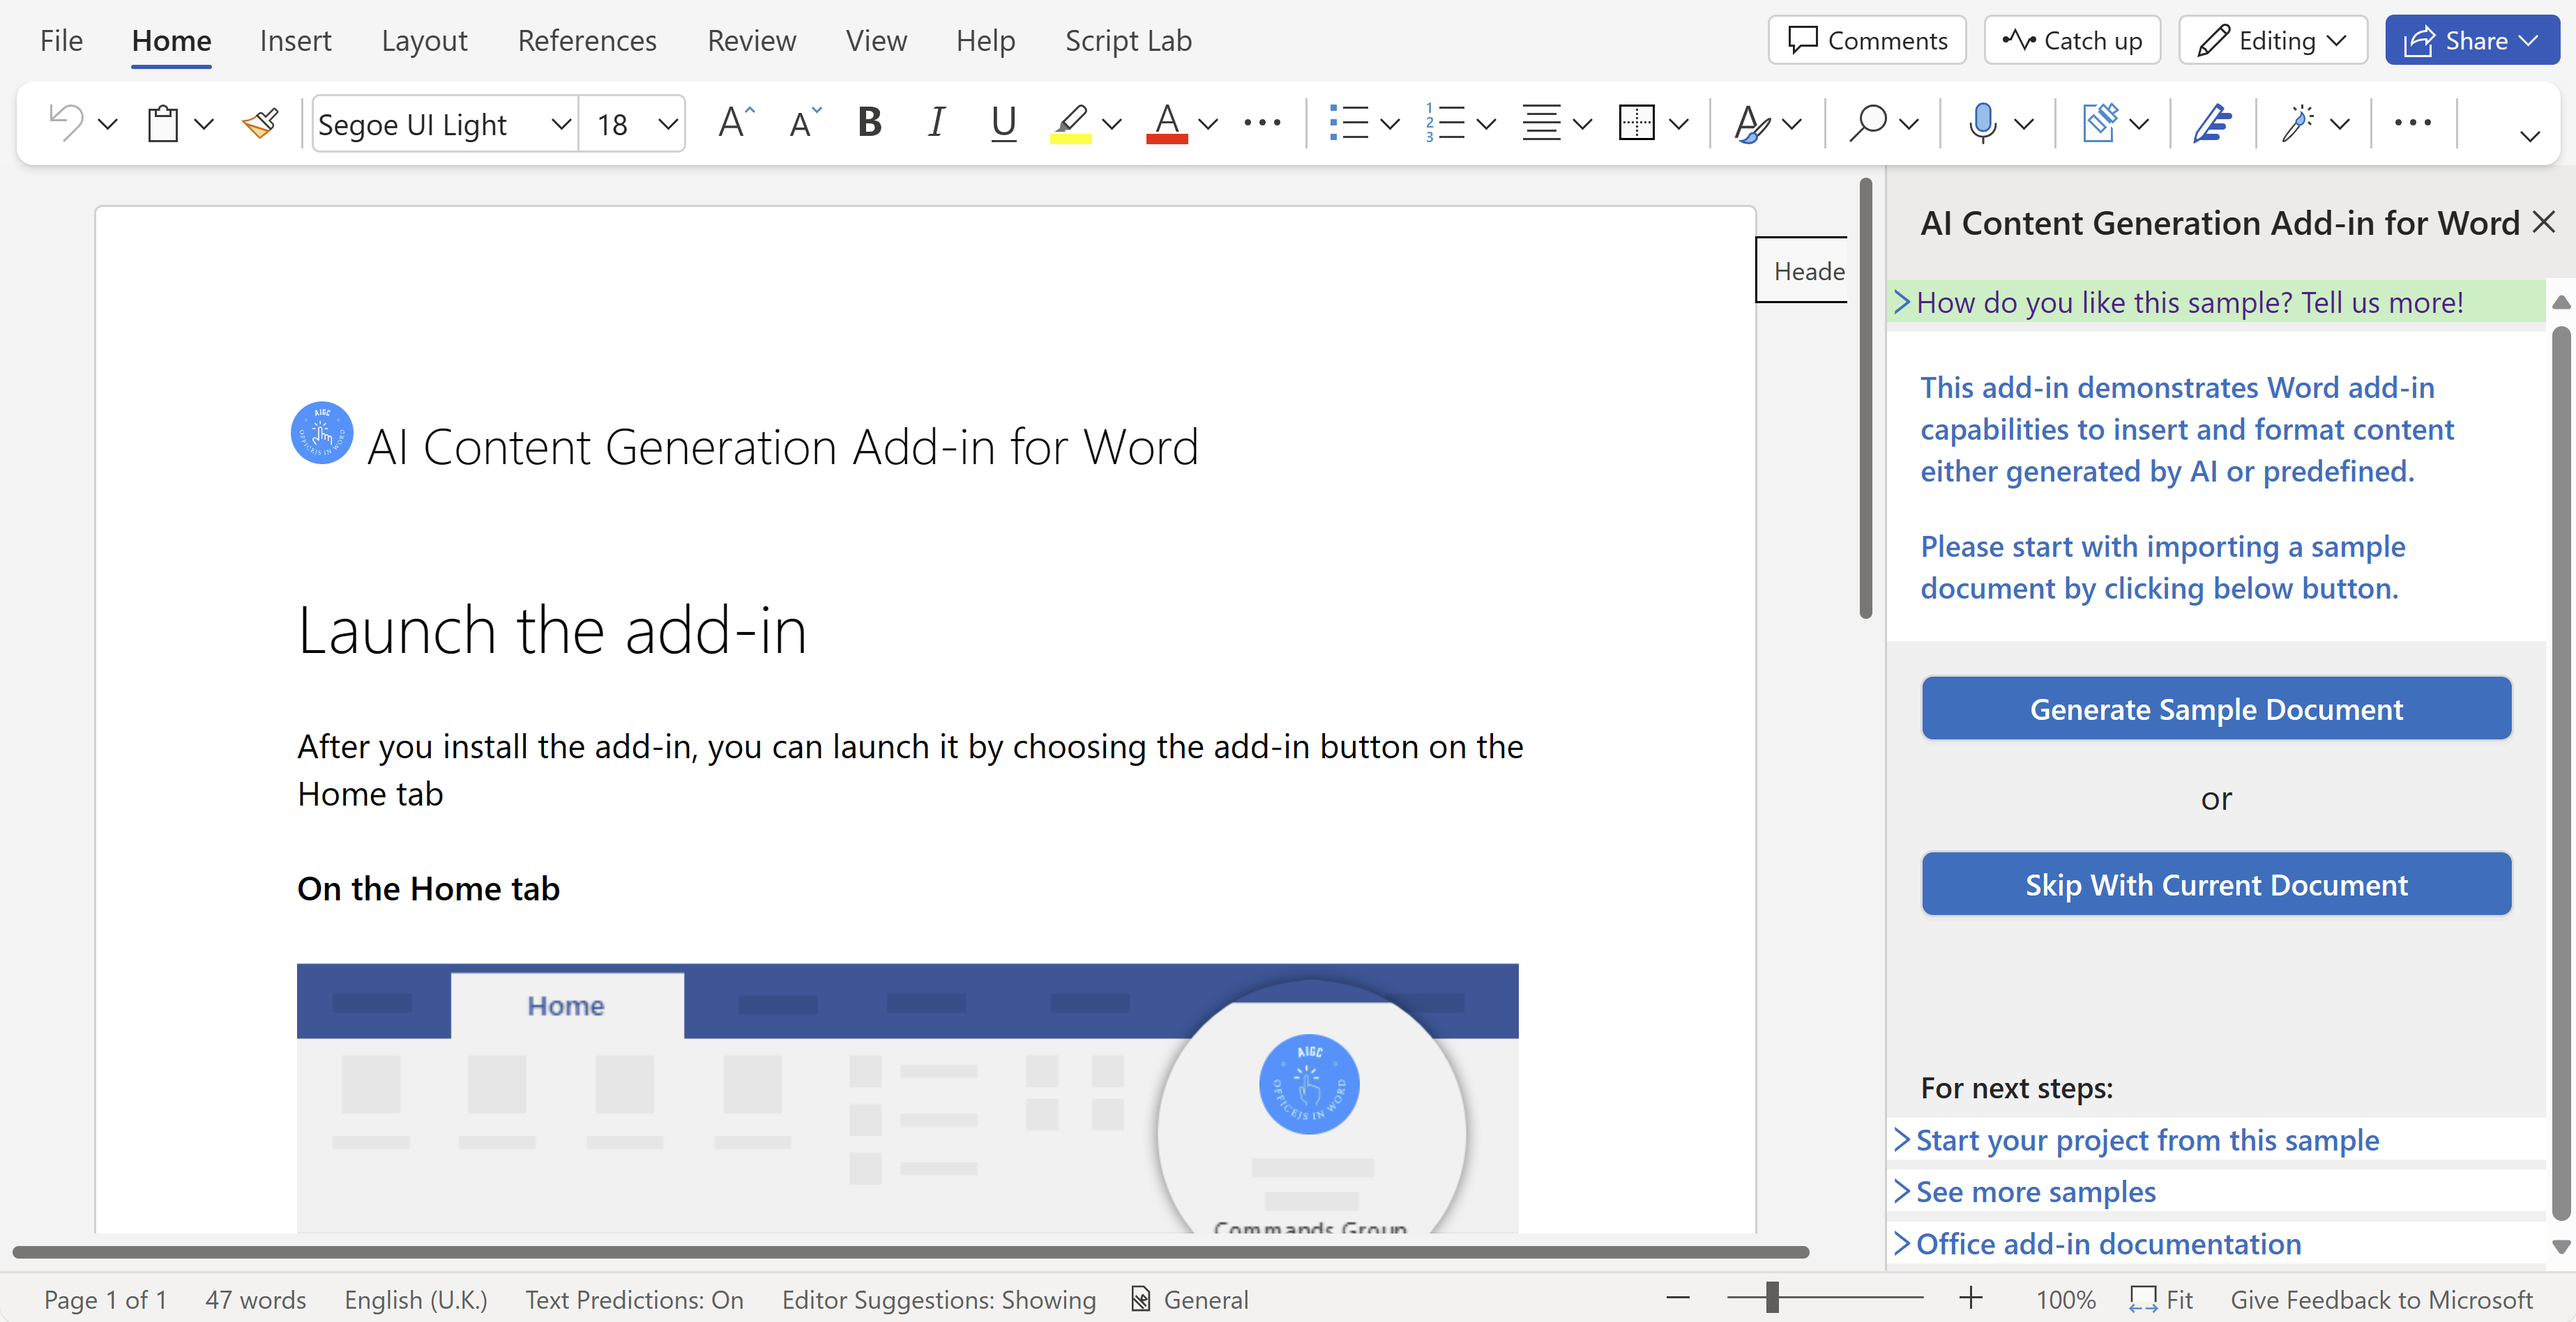
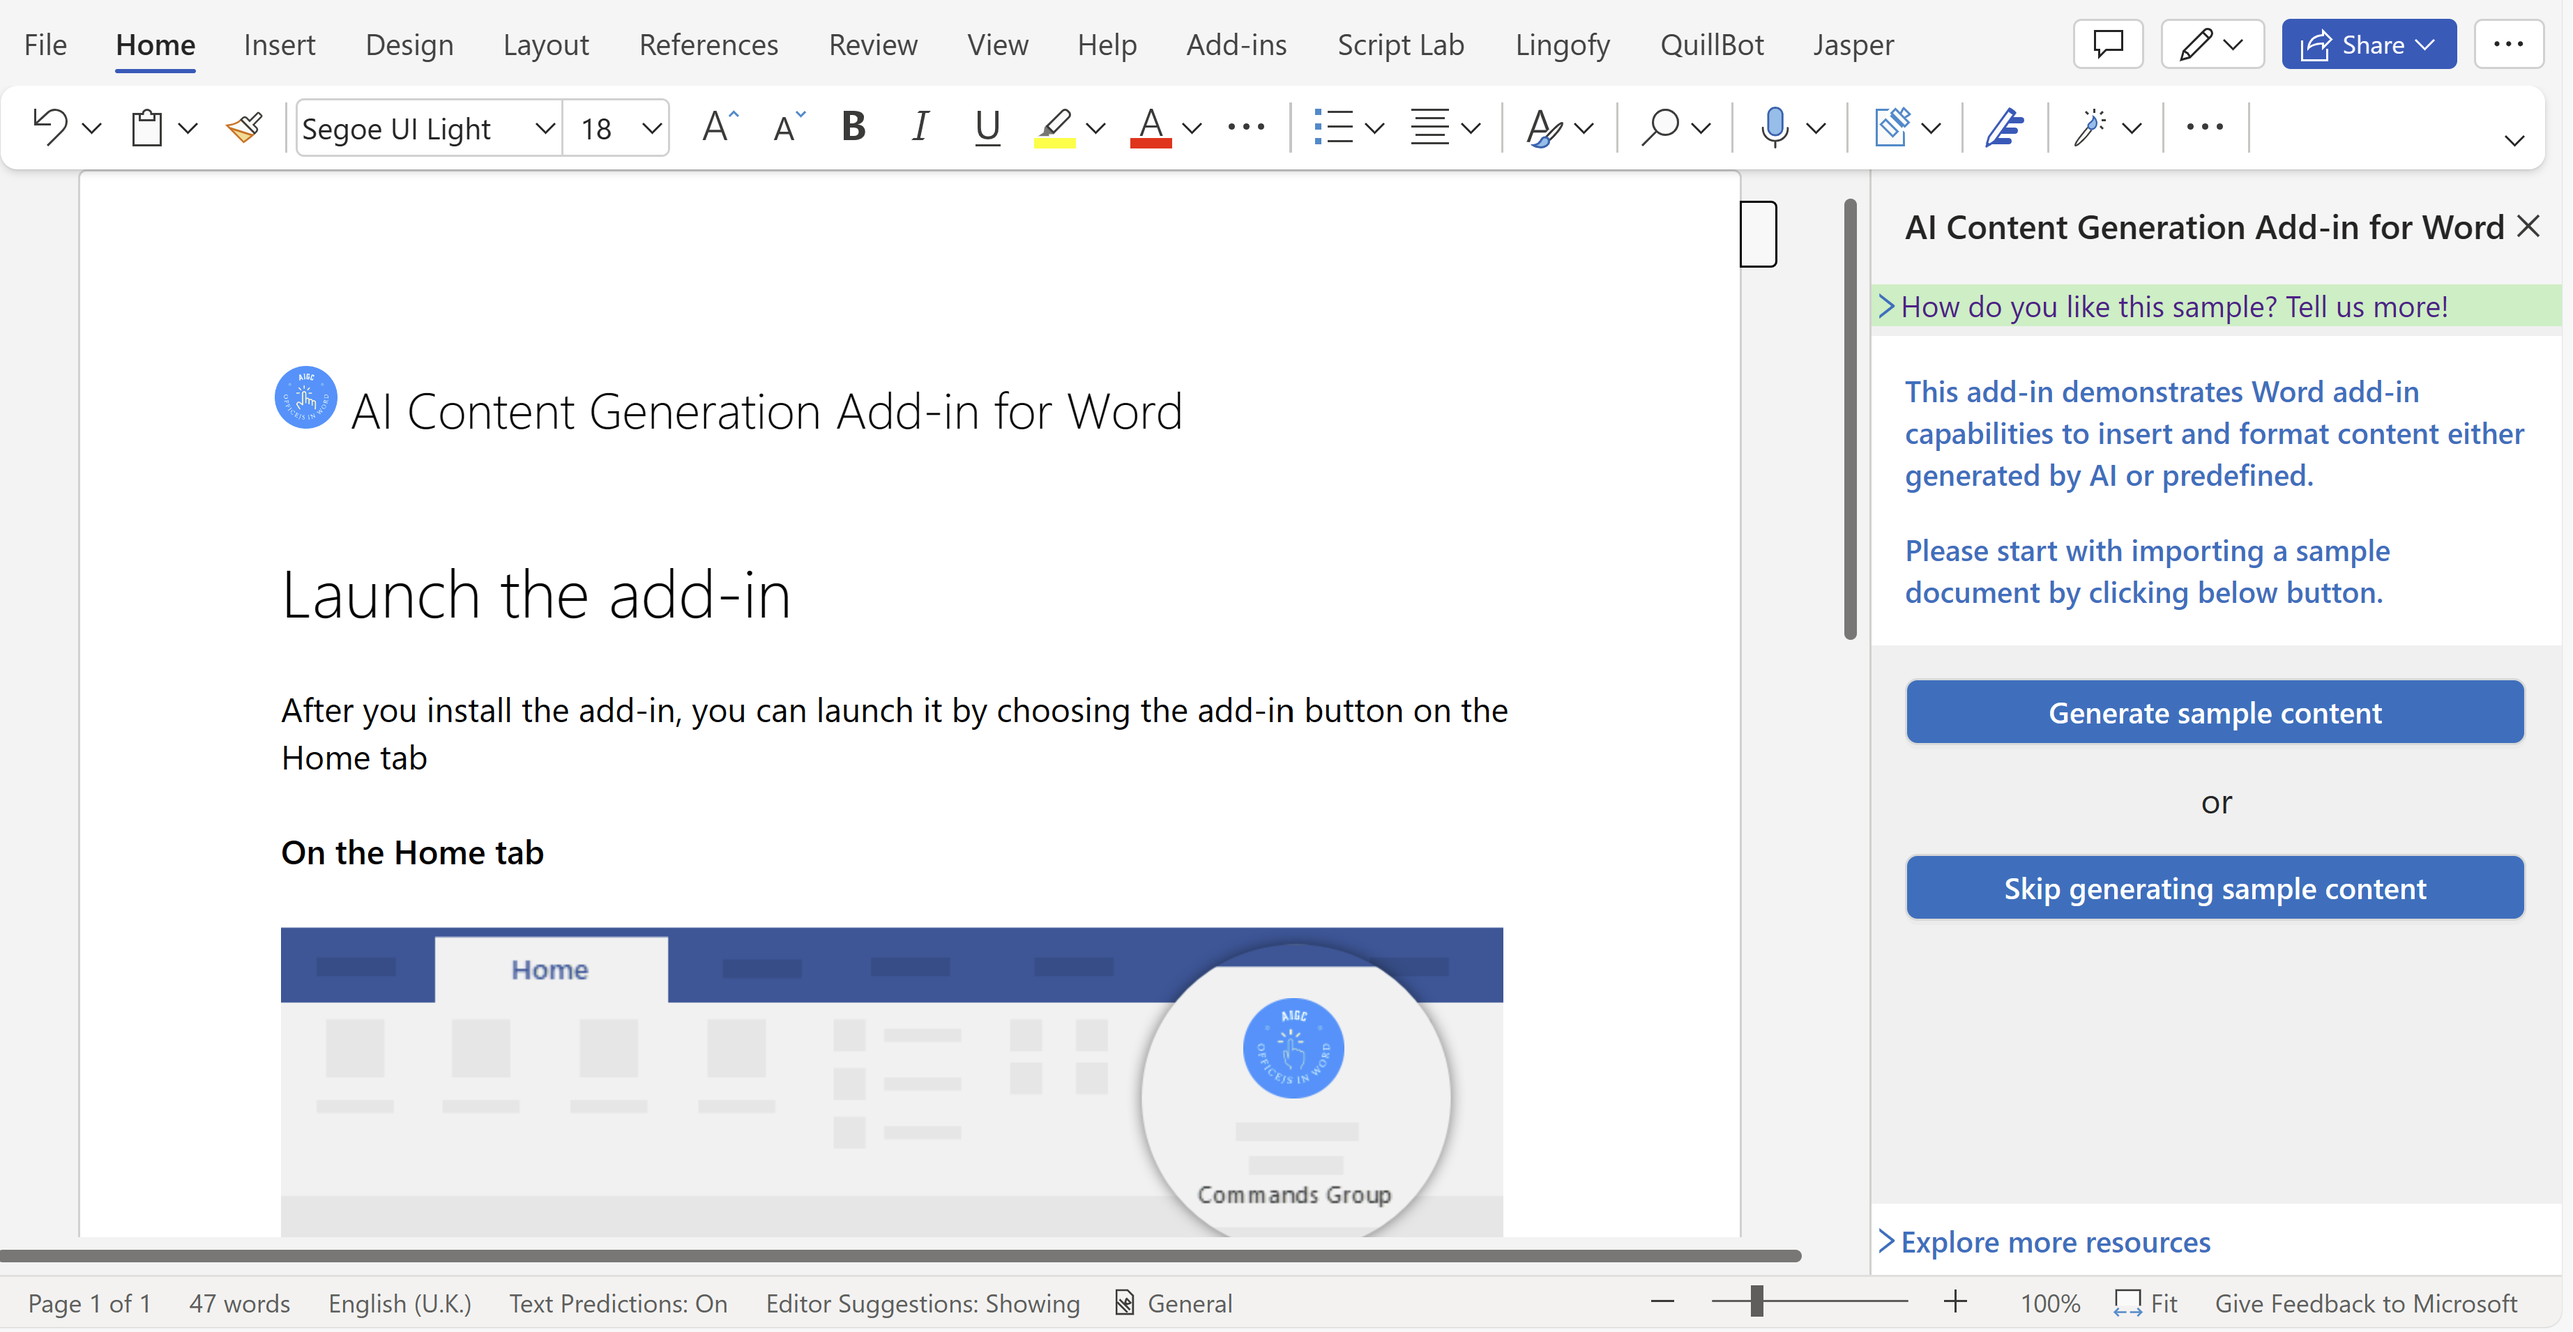
update readme picture and put callback to then in Office.onReady

diff --git a/Word-Add-in-AIGC/src/taskpane/index.tsx b/Word-Add-in-AIGC/src/taskpane/index.tsx
@@ -11,7 +11,7 @@ const rootElement: HTMLElement = document.getElementById("container");
 const root = createRoot(rootElement);
 
 /* Render application after Office initializes */
-Office.onReady(() => {
+Office.onReady().then(() => {
   root.render(
     <FluentProvider theme={webLightTheme}>
       <Home />

diff --git a/Word-Add-in-AIGC/README.md b/Word-Add-in-AIGC/README.md
@@ -32,7 +32,7 @@ When you click the button, you will open Word online in a new browser tab, and t
 To run the sample on desktop, please follow the detailed steps provided below.
 1. Run command below to clone the repo and install the project dependency.
    ```console
-   git clone https://github.com/OfficeDev/Word-Scenario-based-Add-in-Samples.git && cd Word-Scenario-based-Add-in-Samples/Word-Add-in-AIGC && npm    install
+   git clone https://github.com/OfficeDev/Word-Scenario-based-Add-in-Samples.git && cd Word-Scenario-based-Add-in-Samples/Word-Add-in-AIGC && npm install
    ```
 3. Open the `Word-Scenario-based-Add-in-Samples/Word-Add-in-AIGC` folder in Visual Studio Code. You can see the sample code and make code changes to the sample.
 4. Run the following command in your CLI to start the sample add-in on desktop.
